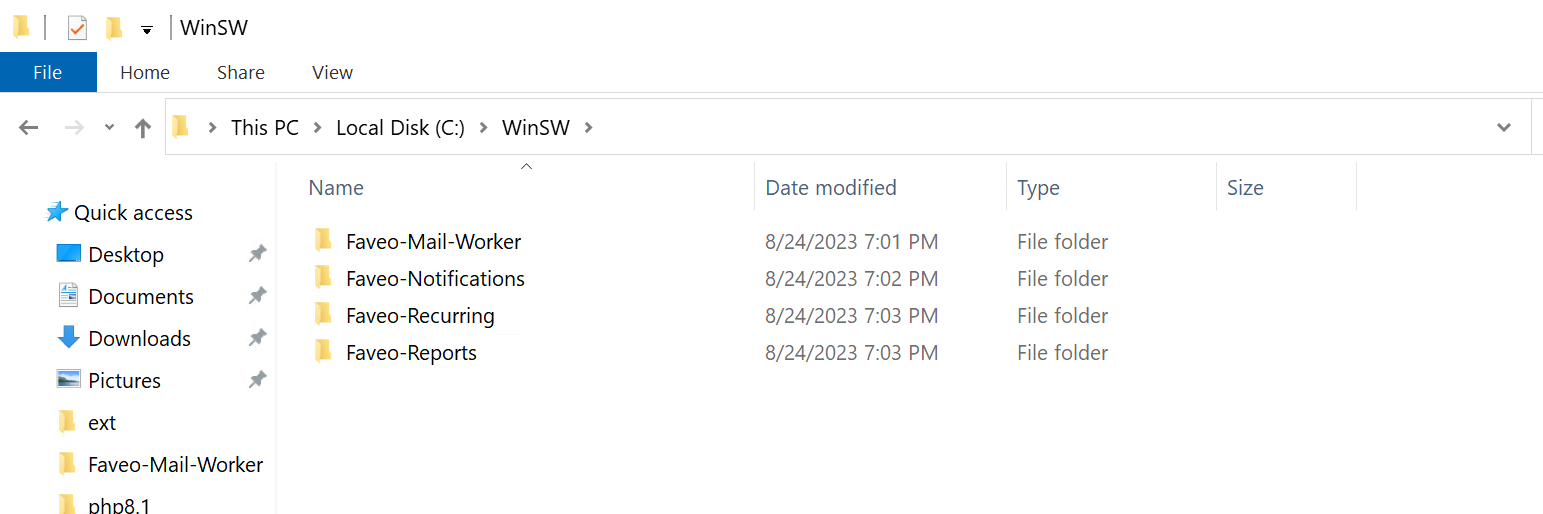
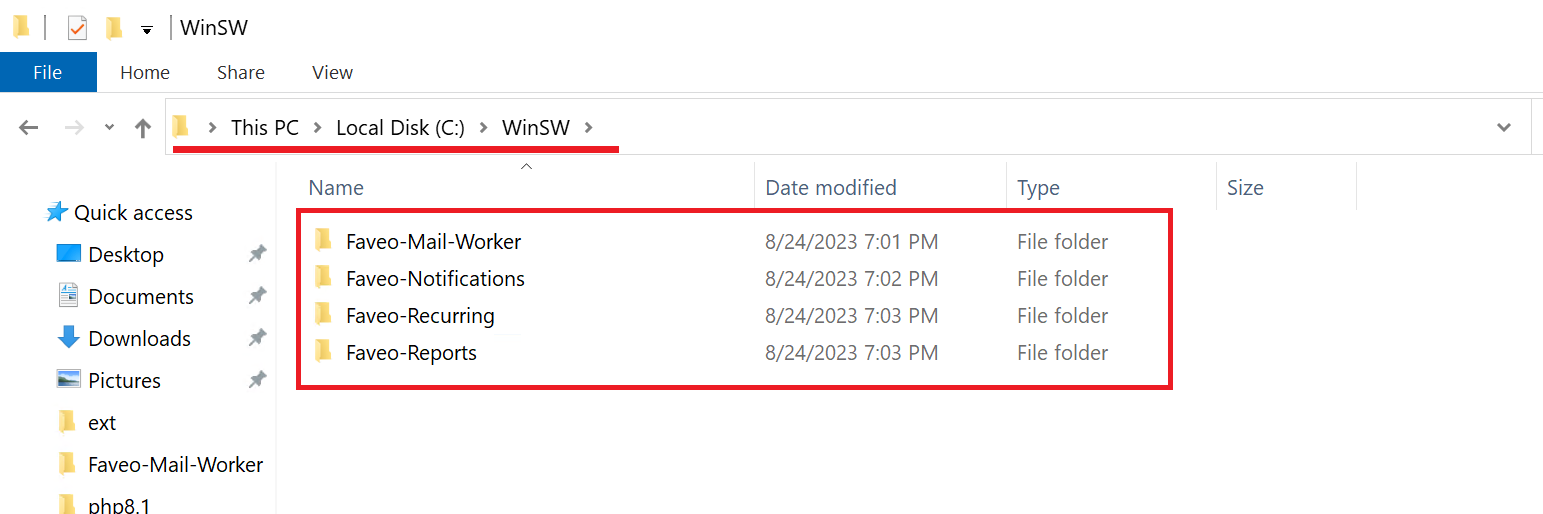
modified:   Redis Windows Server/images/1.png 	modified:   Redis Windows Server/images/2.png 	new file:   Redis Windows Server/images/3.png 	new file:   Redis Windows Server/images/4.png 	new file:   Redis Windows Server/images/5.png 	modified:   Redis Windows Server/redis.md

Changed region(s): [[0.1866, 0.4047, 0.7777, 0.7782], [0.0933, 0.2802, 0.4044, 0.3113]]

diff --git a/Redis Windows Server/redis.md b/Redis Windows Server/redis.md
@@ -13,6 +13,31 @@ Go inside the folder & copy the nssm-2.24 folder & paste it in <code>C:\WinSW.</
 
 <img alt="Windows-Server" src="/Redis Windows Server/images/1.png"/>
 
-Go inside the pasted WinSW folder
+Go inside the pasted WinSW folder.
 
 <img alt="Windows-Server" src="/Redis Windows Server/images/2.png"/>
+
+Go to Command Prompt and configure WINSW-SERVICE by typing the following commands. (Faveo-Mail-Worker, Faveo-Recurring, Faveo-Reports & Faveo-Notifications are to be configured in actual).
+
+### 1. Faveo-Mail-Worker
+
+Go inside the folder <code>C:\WinSW\Faveo-Mail-Worker.</code>
+
+Go to Command Prompt by typing the following Image.
+
+<img alt="Windows-Server" src="/Redis Windows Server/images/3.png"/>
+
+```
+winsw install
+winsw start
+winsw status
+winsw stop
+winsw uninstall
+
+```
+
+<img alt="Windows-Server" src="/Redis Windows Server/images/4.png"/>
+
+Now click SERVICE-NAME and start the service as shown below:
+
+<img alt="Windows-Server" src="/Redis Windows Server/images/5.png"/>
